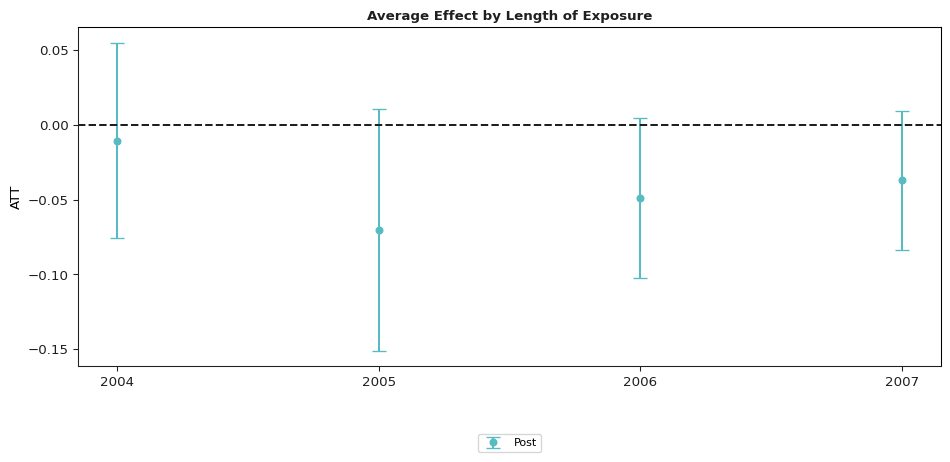
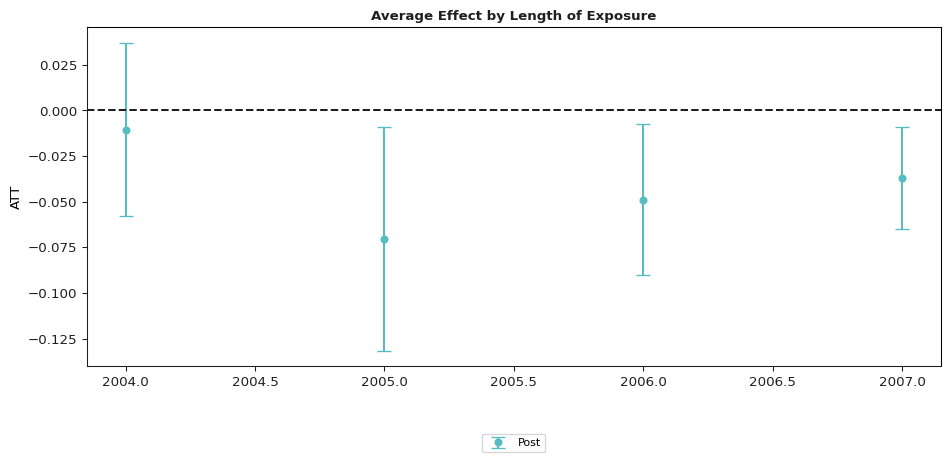
docs: update generated README

diff --git a/README.md b/README.md
@@ -1,12 +1,5 @@
 # Difference in Difference in Python
 
-[![PyPI version](https://img.shields.io/pypi/v/csdid.svg?color=blue)](https://pypi.org/project/csdid/)
-[![Downloads](https://static.pepy.tech/personalized-badge/csdid?period=total&units=international_system&left_color=blue&right_color=grey&left_text=Downloads)](https://pepy.tech/project/csdid)
-[![Last commit](https://img.shields.io/github/last-commit/d2cml-ai/csdid.svg)](https://github.com/d2cml-ai/csdid/commits/main)
-[![GitHub stars](https://img.shields.io/github/stars/d2cml-ai/csdid.svg?style=social)](https://github.com/d2cml-ai/csdid/stargazers)
-[![GitHub issues](https://img.shields.io/github/issues/d2cml-ai/csdid.svg)](https://github.com/d2cml-ai/csdid/issues)
-[![License](https://img.shields.io/github/license/d2cml-ai/csdid.svg)](https://github.com/d2cml-ai/csdid/blob/main/LICENSE)
-
 
 The **csdid** package contains tools for computing average treatment
 effect parameters in a Difference-in-Differences setup allowing for
@@ -37,7 +30,7 @@ treatment effects or event-study-type estimands.
 ## Getting Started
 
 There has been some recent work on DiD with multiple time periods. The
-**csdid** package implements the framework put forward in
+**did** package implements the framework put forward in
 
 - [Callaway, Brantly and Pedro H.C. Sant’Anna.
   “Difference-in-Differences with Multiple Time Periods.” Journal of
@@ -134,18 +127,18 @@ out.summ_attgt().summary2
 
 |     | Group | Time | ATT(g, t) | Post | Std. Error | \[95% Pointwise | Conf. Band\] |     |
 |-----|-------|------|-----------|------|------------|-----------------|--------------|-----|
-| 0   | 2004  | 2004 | -0.0105   | 0    | 0.0241     | -0.0781         | 0.0571       |     |
-| 1   | 2004  | 2005 | -0.0704   | 0    | 0.0324     | -0.1612         | 0.0204       |     |
-| 2   | 2004  | 2006 | -0.1373   | 0    | 0.0393     | -0.2476         | -0.0269      | \*  |
-| 3   | 2004  | 2007 | -0.1008   | 0    | 0.0360     | -0.2017         | 0.0001       |     |
-| 4   | 2006  | 2004 | 0.0065    | 0    | 0.0238     | -0.0601         | 0.0732       |     |
-| 5   | 2006  | 2005 | -0.0028   | 0    | 0.0188     | -0.0554         | 0.0499       |     |
-| 6   | 2006  | 2006 | -0.0046   | 0    | 0.0172     | -0.0528         | 0.0437       |     |
-| 7   | 2006  | 2007 | -0.0412   | 0    | 0.0201     | -0.0976         | 0.0152       |     |
-| 8   | 2007  | 2004 | 0.0305    | 0    | 0.0147     | -0.0108         | 0.0719       |     |
-| 9   | 2007  | 2005 | -0.0027   | 0    | 0.0160     | -0.0476         | 0.0421       |     |
-| 10  | 2007  | 2006 | -0.0311   | 0    | 0.0173     | -0.0796         | 0.0174       |     |
-| 11  | 2007  | 2007 | -0.0261   | 0    | 0.0171     | -0.0740         | 0.0219       |     |
+| 0   | 2004  | 2004 | -0.0105   | 1    | 0.0257     | -0.0809         | 0.0599       |     |
+| 1   | 2004  | 2005 | -0.0704   | 1    | 0.0323     | -0.1589         | 0.0181       |     |
+| 2   | 2004  | 2006 | -0.1373   | 1    | 0.0393     | -0.2449         | -0.0296      | \*  |
+| 3   | 2004  | 2007 | -0.1008   | 1    | 0.0349     | -0.1963         | -0.0053      | \*  |
+| 4   | 2006  | 2004 | 0.0065    | 0    | 0.0225     | -0.0552         | 0.0682       |     |
+| 5   | 2006  | 2005 | -0.0028   | 0    | 0.0185     | -0.0533         | 0.0478       |     |
+| 6   | 2006  | 2006 | -0.0046   | 1    | 0.0188     | -0.0561         | 0.0469       |     |
+| 7   | 2006  | 2007 | -0.0412   | 1    | 0.0200     | -0.0961         | 0.0136       |     |
+| 8   | 2007  | 2004 | 0.0305    | 0    | 0.0155     | -0.0119         | 0.0729       |     |
+| 9   | 2007  | 2005 | -0.0027   | 0    | 0.0166     | -0.0481         | 0.0427       |     |
+| 10  | 2007  | 2006 | -0.0311   | 0    | 0.0181     | -0.0805         | 0.0184       |     |
+| 11  | 2007  | 2007 | -0.0261   | 1    | 0.0175     | -0.0739         | 0.0218       |     |
 
 </div>
 
@@ -156,14 +149,7 @@ class and the graph information.
 out.plot_attgt();
 ```
 
-    /home/runner/work/csdid/csdid/csdid/plots/gplot.py:19: FutureWarning: Setting an item of incompatible dtype is deprecated and will raise in a future error of pandas. Value '['2004' '2005' '2006' '2007']' has dtype incompatible with int64, please explicitly cast to a compatible dtype first.
-      ssresults.loc[:, 'year'] = ssresults['year'].astype(int).astype(str)
-    /home/runner/work/csdid/csdid/csdid/plots/gplot.py:19: FutureWarning: Setting an item of incompatible dtype is deprecated and will raise in a future error of pandas. Value '['2004' '2005' '2006' '2007']' has dtype incompatible with int64, please explicitly cast to a compatible dtype first.
-      ssresults.loc[:, 'year'] = ssresults['year'].astype(int).astype(str)
-    /home/runner/work/csdid/csdid/csdid/plots/gplot.py:19: FutureWarning: Setting an item of incompatible dtype is deprecated and will raise in a future error of pandas. Value '['2004' '2005' '2006' '2007']' has dtype incompatible with int64, please explicitly cast to a compatible dtype first.
-      ssresults.loc[:, 'year'] = ssresults['year'].astype(int).astype(str)
-
-![](README_files/figure-commonmark/cell-5-output-2.png)
+![](README_files/figure-commonmark/cell-5-output-1.png)
 
 ``` python
 out.aggte(typec='calendar');
@@ -172,16 +158,16 @@ out.aggte(typec='calendar');
 
 
     Overall summary of ATT's based on calendar time aggregation:
-        ATT Std. Error  [95.0%  Conf. Int.]  
-    -0.0417     0.0169 -0.0748      -0.0086 *
+        ATT Std. Error [95.0%  Conf. Int.]  
+    -0.0417     0.0165 -0.074      -0.0094 *
 
 
     Time Effects (calendar):
        Time  Estimate  Std. Error  [95.0% Simult.   Conf. Band   
-    0  2004   -0.0105      0.0244          -0.0584      0.0374   
-    1  2005   -0.0704      0.0307          -0.1305     -0.0103  *
-    2  2006   -0.0488      0.0210          -0.0900     -0.0076  *
-    3  2007   -0.0371      0.0136          -0.0637     -0.0105  *
+    0  2004   -0.0105      0.0242          -0.0580      0.0370   
+    1  2005   -0.0704      0.0313          -0.1318     -0.0090  *
+    2  2006   -0.0488      0.0210          -0.0900     -0.0077  *
+    3  2007   -0.0371      0.0143          -0.0650     -0.0091  *
     ---
     Signif. codes: `*' confidence band does not cover 0
     Control Group:  Never Treated , 
@@ -192,120 +178,36 @@ out.aggte(typec='calendar');
 out.plot_aggte();
 ```
 
-    /home/runner/work/csdid/csdid/csdid/plots/gplot.py:19: FutureWarning: Setting an item of incompatible dtype is deprecated and will raise in a future error of pandas. Value '['2004' '2005' '2006' '2007']' has dtype incompatible with int64, please explicitly cast to a compatible dtype first.
-      ssresults.loc[:, 'year'] = ssresults['year'].astype(int).astype(str)
+![](README_files/figure-commonmark/cell-7-output-1.png)
 
-![](README_files/figure-commonmark/cell-7-output-2.png)
+## Additional options
 
+`ATTgt(...)` and `.fit(...)` support several options for inference,
+performance, and weighting (all matching the R `did` package):
 
-**Event Studies**
-
-Although in the current example it is pretty easy to directly interpret
-the group-time average treatment effects, there are many cases where it
-is convenient to aggregate the group-time average treatment effects into
-a small number of parameters. A main type of aggregation is into an
-*event study* plot.
-
-To make an event study plot in the **csdid** package, one can use the
-**aggte** function with **dynamic** option
-
-``` python
-out.aggte(typec='dynamic');
-```
-
-
-
-    Overall summary of ATT's based on event-study/dynamic aggregation:
-    ATT Std. Error  [95.0%  Conf. Int.]  
-    -0.0772     0.0207 -0.1179      -0.0366 *
-
-
-    Dynamic Effects:
-      Event time  Estimate  Std. Error  [95.0% Simult.   Conf. Band   
-    0          -3    0.0305      0.0146           0.0019      0.0591  *
-    1          -2   -0.0006      0.0129          -0.0259      0.0248   
-    2          -1   -0.0245      0.0141          -0.0521      0.0032   
-    3           0   -0.0199      0.0117          -0.0428      0.0030   
-    4           1   -0.0510      0.0154          -0.0811     -0.0208  *
-    5           2   -0.1373      0.0366          -0.2091     -0.0655  *
-    6           3   -0.1008      0.0337          -0.1669     -0.0347  *
-    ---
-    Signif. codes: `*' confidence band does not cover 0
-    Control Group:  Never Treated , 
-    Anticipation Periods:  0
-    Estimation Method:  Doubly Robust
-
-The column `event time` is for each group relative to when they first
-participate in the treatment. To give some examples, `event time=0`
-corresponds to the *on impact* effect, and `event time=-1` is the
-*effect* in the period before a unit becomes treated (checking that this
-is equal to 0 is potentially useful as a pre-test).
-
-To plot the event study, use **plot_aggte** method
-``` python
-out.plot_aggte();
-```
-
-    /home/runner/work/csdid/csdid/csdid/plots/gplot.py:19: FutureWarning: Setting an item of incompatible dtype is deprecated and will raise in a future error of pandas. Value '['2004' '2005' '2006' '2007']' has dtype incompatible with int64, please explicitly cast to a compatible dtype first.
-      ssresults.loc[:, 'year'] = ssresults['year'].astype(int).astype(str)
-
-![](README_files/figure-commonmark/cell-8-output-2.png)
-
-The figure here is very similar to the group-time average treatment
-effects. Red dots are pre-treatment periods, blue dots are
-post-treatment periods. The difference is that the x-axis is in event
-time.
-
-**Overall Effect of Participating in the Treatment**
-
-The event study above reported an overall effect of participating in the
-treatment. This was computed by averaging the average effects computed
-at each length of exposure.
-
-In many cases, a more general purpose overall treatment effect parameter
-is give by computing the average treatment effect for each group, and
-then averaging across groups. This sort of procedure provides an average
-treatment effect parameter with a very similar interpretation to the
-Average Treatment Effect on the Treated (ATT) in the two period and two
-group case.
-
-To compute this overall average treatment effect parameter, use
-
+- **Control group**: `control_group="nevertreated"` (default) or
+  `"notyettreated"`.
+- **Estimation method**: `.fit(est_method="dr")` (doubly robust,
+  default), `"reg"` (outcome regression), `"ipw"` (inverse-probability
+  weighting), or a Python callable.
+- **Base period**: `.fit(base_period="varying")` (default) or
+  `"universal"`.
+- **Clustered inference**: pass `clustervar="..."` for cluster-robust
+  standard errors (analytical when `bstrap=False`, or via the multiplier
+  bootstrap).
+- **Point estimates only**: `compute_inffunc=False` skips
+  influence-function and standard-error computation for faster, lighter
+  exploratory runs.
+- **Time-varying weights** (`weights_name`): `fix_weights` controls
+  which period’s weights each 2×2 comparison uses — `None` (earlier
+  period, default), `"base_period"`, `"first_period"`, or `"varying"`.
+- **Faster computation**: `faster_mode=True` returns identical results
+  to the default path but is ~3× faster by precomputing the covariate
+  design once per period and pre-pivoting outcomes/weights.
 
 ``` python
-out.aggte(typec='group');
-```
-
-
-
-    Overall summary of ATT's based on group/cohort aggregation:
-    ATT Std. Error  [95.0%  Conf. Int.]  
-    -0.031     0.0124 -0.0553      -0.0067 *
-
-
-    Group Effects:
-      Group  Estimate  Std. Error  [95.0% Simult.   Conf. Band   
-    0   2004   -0.0797      0.0301          -0.1387     -0.0208  *
-    1   2006   -0.0229      0.0172          -0.0567      0.0109   
-    2   2007   -0.0261      0.0174          -0.0601      0.0080   
-    ---
-    Signif. codes: `*' confidence band does not cover 0
-    Control Group:  Never Treated , 
-    Anticipation Periods:  0
-    Estimation Method:  Doubly Robust
-
-Of particular interest is the `Overall ATT` in the results. Here, we
-estimate that increasing the minimum wage decreased teen employment by
-3.1% and the effect is marginally statistically significant.
-
-# How to cite
-If you want to cite CSDID, you can use the following BibTeX entry:
-
-``` python
-@software{csdid,
-  author  = {Callaway, Brantly and Sant'Anna, Pedro HC and Quispe, Alexander and Guevara, Carlos},
-  title   = {{csdid: Difference-in-Differences with Multiple Time Periods in Python}},
-  year    = {2024},
-  url     = {https://github.com/d2cml-ai/csdid}
-}
+# ~3x faster, identical results; cluster-robust SEs; point estimates only:
+out = ATTgt(yname="lemp", gname="first.treat", idname="countyreal", tname="year",
+            xformla="lemp~1", data=data, clustervar="countyreal",
+            faster_mode=True).fit(est_method="dr")
 ```
